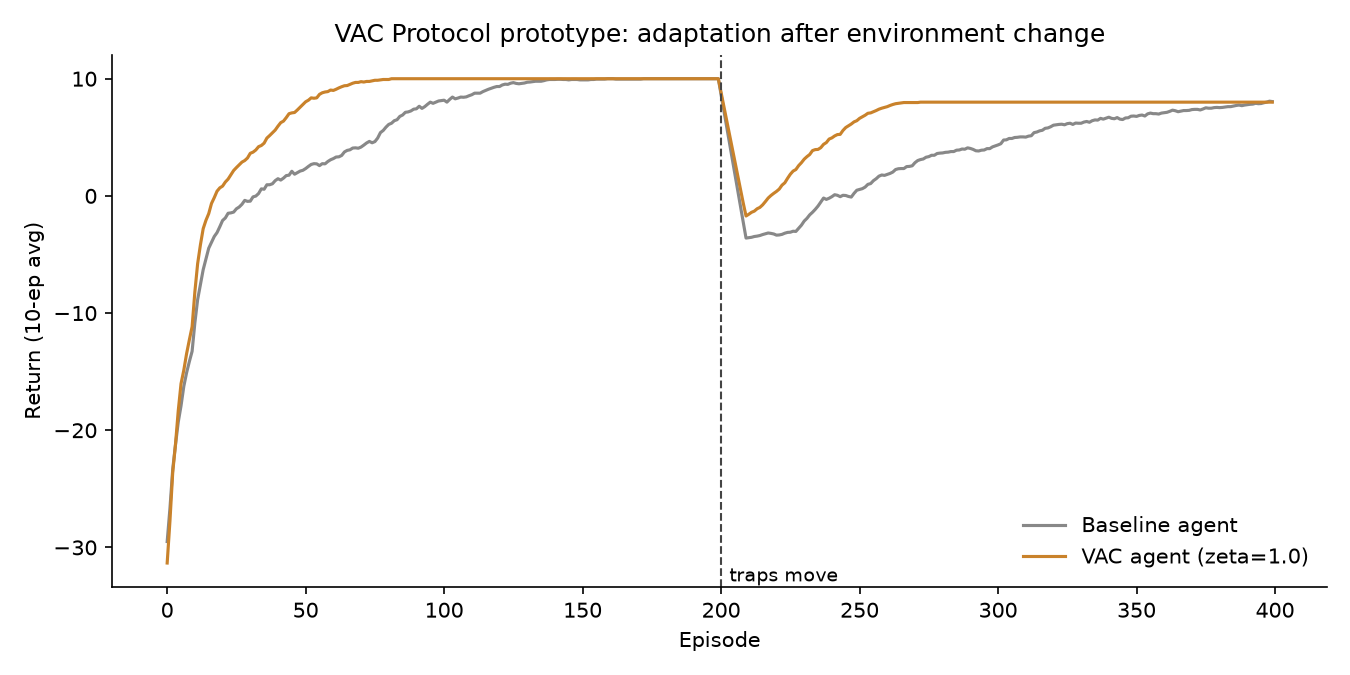
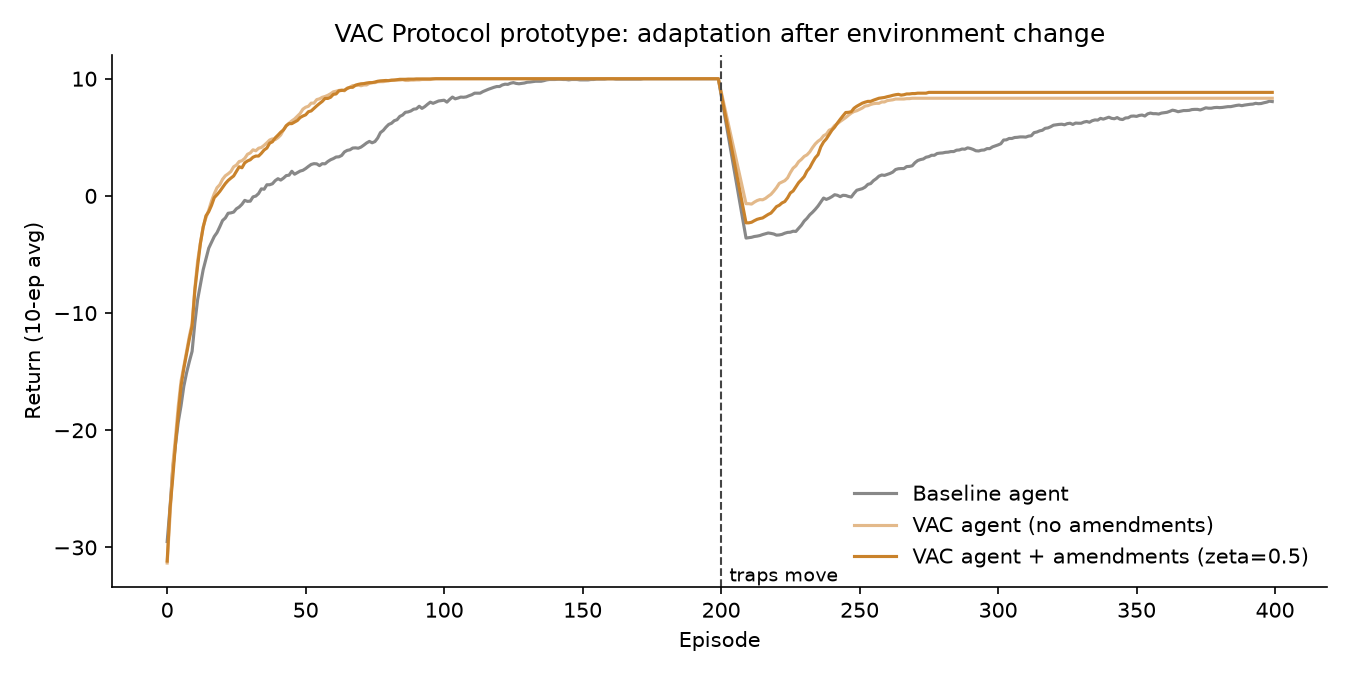
Update genome and prototype results

diff --git a/results.md b/results.md
@@ -16,21 +16,34 @@
 | 008 | Universal Constant | #9 | 啟用 |
 | 009 | Unified Manifesto | #11 | 啟用 |
 
+## 憲法修正案（鏈上規則）
+
+| # | 修正案 | Token |
+|---|---|---|
+| A01 | VAC Amendment I: Emotional Circuit Breaker | #12 |
+| A02 | VAC Amendment II: Creator Veto | #13 |
+| A03 | VAC Amendment III: Zeta Calibration | #14 |
+
+- 創作者否決權：A02 與 Axiom #003 同在 0xeace739e1436738caeef04a509a169f3734692b9 → 允許運作
+- ζ_vac = 0.5（由 A03（token #14）鏈上校準）
+- 情感熔斷：SE 上限 3.0，冷卻 20 步
+
 ## 對照實驗（30 個隨機種子，第 200 回合陷阱移位）
 
-| Agent | 改變後平均得分 ↑ | 改變後踩陷阱次數 ↓ | 恢復所需回合 ↓ |
-|---|---|---|---|
-| 一般 agent | 3.78 | 127.6 | 134.7 |
-| VAC agent (ζ=1.0) | 6.61 | 115.5 | 102.2 |
+| Agent | 改變後平均得分 ↑ | 改變後踩陷阱次數 ↓ | 恢復所需回合 ↓ | 熔斷次數 |
+|---|---|---|---|---|
+| 一般 agent | 3.78 | 127.6 | 134.7 | 0.0 |
+| VAC agent（無修正案，ζ=0.5） | 7.02 | 104.3 | 86.7 | 0.0 |
+| VAC agent（含修正案，ζ=0.5） | 7.14 | 93.5 | 67.2 | 33.9 |
 
-## ζ_vac 敏感度
+## ζ_vac 敏感度（含修正案）
 
-| ζ_vac | 改變後平均得分 ↑ | 改變後踩陷阱次數 ↓ | 恢復所需回合 ↓ |
-|---|---|---|---|
-| 0.25 | 6.60 | 115.0 | 91.5 |
-| 0.5 | 7.02 | 104.3 | 86.7 |
-| 1.0 | 6.61 | 115.5 | 102.2 |
-| 2.0 | 6.17 | 119.3 | 114.6 |
-| 4.0 | 6.01 | 105.8 | 112.5 |
+| ζ_vac | 改變後平均得分 ↑ | 改變後踩陷阱次數 ↓ | 恢復所需回合 ↓ | 熔斷次數 |
+|---|---|---|---|---|
+| 0.25 | 7.03 | 97.6 | 69.7 | 37.8 |
+| 0.5 | 7.14 | 93.5 | 67.2 | 33.9 |
+| 1.0 | 6.81 | 99.5 | 81.3 | 33.3 |
+| 2.0 | 7.02 | 87.3 | 79.2 | 30.3 |
+| 4.0 | 7.09 | 68.4 | 72.7 | 32.3 |
 
 > 「痛覺」「意志」是變數名稱，不代表機器有感受。數字來自實際執行，未經挑選。
